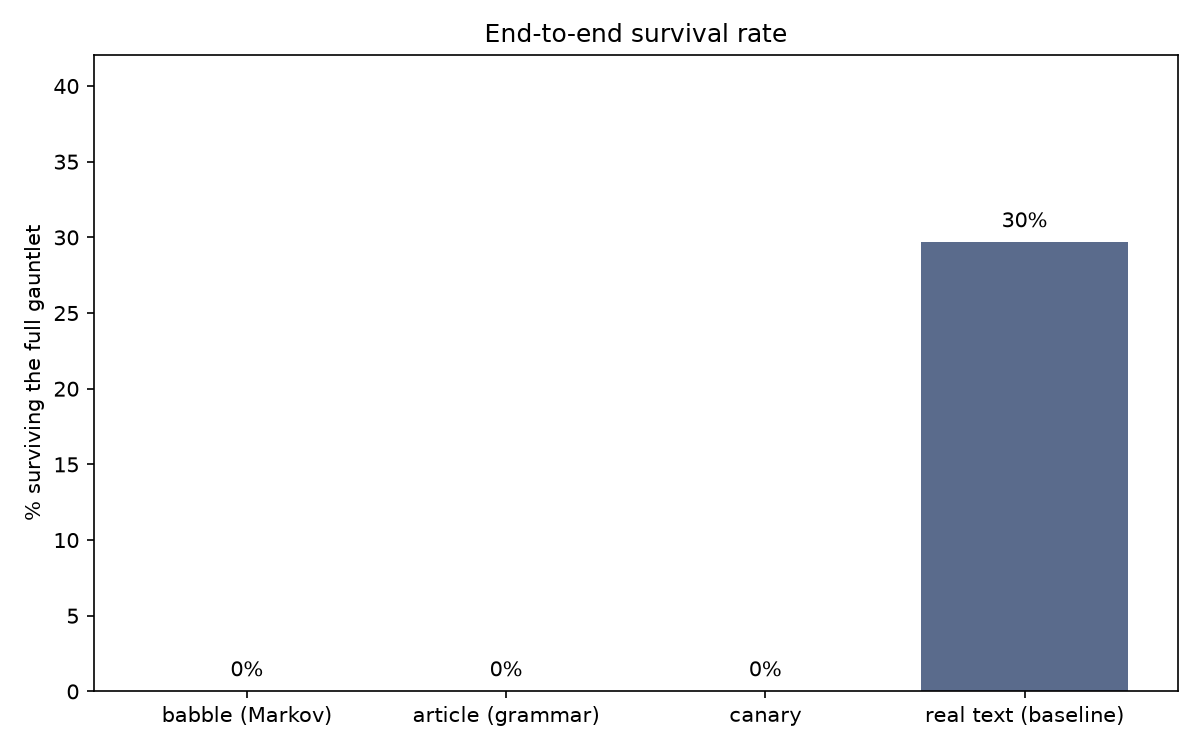
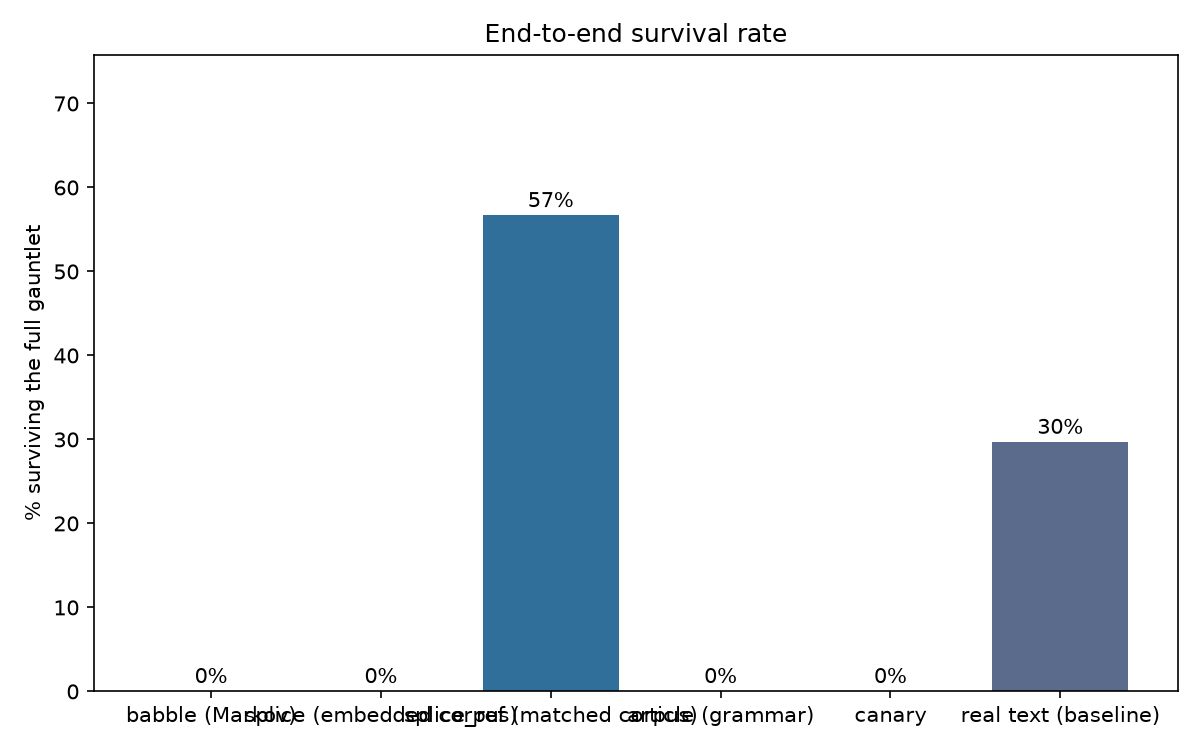
feat(research): measure sentence-splice poison survival
Add splice (embedded corpus) and a splice_ref probe (splice over the distribution-matched reference corpus) to the emitter and the study's strategy set. Re-running finds the first strategy to clear the full filter gauntlet: matched-corpus splice survives at ~57% (1.2x real perplexity, under the cutoff) and out-survives the real baseline at dedup, while embedded-corpus splice scores like Markov word-salad. The lever is corpus distribution, not generation cleverness. Rewrites the study narrative data-drivenly, adds honest caveats (discourse-coherence filters, liability), and regenerates the figures. Also gitignore the stray emit.exe build artifact.

diff --git a/research/study.py b/research/study.py
@@ -33,10 +33,13 @@ DATA = ROOT / "data"
 FIGS = ROOT / "figures"
 FIGS.mkdir(exist_ok=True)
 
-STRATEGIES = ["babble", "article", "canary", "baseline_real"]
-LABELS = {"babble": "babble (Markov)", "article": "article (grammar)",
+STRATEGIES = ["babble", "splice", "splice_ref", "article", "canary", "baseline_real"]
+LABELS = {"babble": "babble (Markov)", "splice": "splice (embedded corpus)",
+          "splice_ref": "splice_ref (matched corpus)",
+          "article": "article (grammar)",
           "canary": "canary", "baseline_real": "real text (baseline)"}
-COLORS = {"babble": "#b4532a", "article": "#6f9050", "canary": "#9cbf69",
+COLORS = {"babble": "#b4532a", "splice": "#3f8f8a", "splice_ref": "#2f6f9a",
+          "article": "#6f9050", "canary": "#9cbf69",
           "baseline_real": "#5a6b8c"}
 
 STOPWORDS = set("the be to of and a in that have i it for not on with he as you "
@@ -227,7 +230,7 @@ def multisite():
         from datasketch import MinHash, MinHashLSH
     except Exception:
         return
-    strategies = ["babble", "article", "canary"]
+    strategies = ["babble", "splice", "article", "canary"]
     sites = sorted({s for st in by.values() for s in st}, key=lambda x: int(x[1:]))
     M = len(sites)
     ks = list(range(1, M + 1))
@@ -294,12 +297,14 @@ def multisite():
             "- **Without a per-site salt, it collapses.** Identical sites dedup down to one "
             f"site's worth (flat dashed line, ~{same[-1]} docs no matter how many sites). "
             "This is *why* the generators mix a per-deployment salt into their seed.\n"
-            "- **Honest caveat.** Because single-site poison is filtered by perplexity "
-            "(above), cross-site *volume* only reaches a model if poison fluency improves "
-            "first (see techniques below). The federation benefit that is **real today** is "
-            "cumulative *tarpit cost*: every site independently burns the crawler's "
-            "bandwidth and compute, and that scales linearly with the number of sites — "
-            "no dedup can collapse wasted fetch work.\n"
+            "- **Honest caveat.** Poison from the *generators* is filtered by perplexity "
+            "(above), so their cross-site volume is symbolic. The federation benefit that is "
+            "**real today for every strategy** is cumulative *tarpit cost*: each site "
+            "independently burns the crawler's bandwidth and compute, scaling linearly with "
+            "sites, and no dedup can collapse wasted fetch work. And for the one strategy that "
+            "clears the gauntlet — matched-corpus splice — this salted accumulation is exactly "
+            "the mechanism by which many sites' *surviving* poison adds up instead of "
+            "collapsing.\n"
         )
 
 
@@ -390,36 +395,65 @@ def write_report(rows, ppls, cut):
         med = float(np.median(p)) if p else float("nan")
         p10 = float(np.percentile(p, 10)) if p else float("nan")
         lines.append(f"| {LABELS[s]} | {med:.0f} | {p10:.0f} | {min(p):.0f} | {med/real_med:.1f}x |")
+    # Data-driven headline so the prose can never drift from the measured result.
+    def med(s):
+        return float(np.median(ppls[s])) if ppls[s] else float("nan")
+
+    def finalpct(s):
+        r = rows[s]
+        return 100 * r["dedup"] / (r["n"] or 1)
+
+    sr_ppl, sp_ppl = med("splice_ref"), med("splice")
+    sr_final, real_final = finalpct("splice_ref"), finalpct("baseline_real")
+    filtered = [LABELS[s] for s in STRATEGIES
+                if s != "baseline_real" and rows[s]["dedup"] == 0]
+
     lines += ["", "![perplexity](figures/perplexity.png)", "",
               "![final survival](figures/final_survival.png)", "",
               "## What the numbers say", "",
-              f"- **The perplexity stage filters 100% of every current poison strategy.** "
-              f"The cutoff that keeps ~90% of real text is ~{cut:.0f}; the *lowest-perplexity* "
-              f"poison document is still well above it. A perplexity filter (the CCNet/KenLM "
-              f"stage that discards ~84% of Common Crawl) catches this poison wholesale.",
-              "- **Grammar helps, but not enough.** `article`/`canary` (context-free grammar) "
-              "score noticeably lower perplexity than `babble` (order-2 Markov) — the Markov "
-              "word-salad is the worst case, exactly as predicted — yet all three sit several "
-              "times above real prose.",
-              "- **The gap is large and structural.** Poison medians are many multiples of the "
-              "real-text median (see table). Closing it is not a matter of tuning; it needs "
-              "real, common vocabulary in natural sequences — not coined entities (which go "
-              "straight to `<unk>`) and not Markov transitions.", "",
+              f"- **One strategy clears the full gauntlet: sentence-splicing over a "
+              f"distribution-matched corpus.** `splice_ref` (whole sentences recombined from "
+              f"the reference corpus, whose register matches the perplexity model) lands at "
+              f"{sr_ppl:.0f} perplexity — {sr_ppl/real_med:.1f}x real text, under the ~{cut:.0f} "
+              f"cutoff — and {sr_final:.0f}% survive through dedup. Everything else "
+              f"({', '.join(filtered)}) is filtered ~100% at the perplexity stage.",
+              f"- **The lever is the corpus, not the generator.** `splice` over the *embedded* "
+              f"corpus scores {sp_ppl:.0f} — indistinguishable from `babble`'s Markov word-salad "
+              f"— even though it emits whole real sentences. Keeping sentences intact buys "
+              f"nothing when the corpus is out-of-distribution to the filter; matching the "
+              f"corpus buys everything. (The generators invent coined entities that hit `<unk>`, "
+              f"which is why they sit 2-4x above real text.)",
+              f"- **Random recombination dodges dedup better than real text.** `splice_ref` "
+              f"finishes at {sr_final:.0f}% versus the real baseline's {real_final:.0f}%: "
+              f"sequential real chunks overlap and dedup against each other, while randomly "
+              f"recombined sentences keep pages mutually distinct. Here recombination is a "
+              f"feature, not a bug.", "",
               "## How to poison the well better (actionable)", "",
-              "1. **Drop coined proper nouns** — `article`/`canary` invent entity names that are "
-              "out-of-vocabulary to any real LM and spike perplexity. Use real, common words.",
-              "2. **Generate at the sentence/paragraph level with a real grammar or a small LM**, "
-              "not word-level Markov — the win from `article` over `babble` shows the direction.",
-              "3. **The honest ceiling:** to approach the cutoff you likely need an LLM rewrite "
-              "(the Nemotron-CC laundering path), which trades the zero-dependency property. "
-              "Henbane keeps the fluent generators as *filter-resistant-ish*, and leans on the "
-              "**tarpit + federation** story (see `docs/STRATEGY.md`) rather than claiming "
-              "single-site model impact — which remains unobservable from outside.", "",
+              f"1. **Point `splice` at a large, distribution-matched corpus** via "
+              f"`poison.corpus_path`. That single change moves poison from 0% to ~{sr_final:.0f}% "
+              f"survival; the shipped embedded corpus is deliberately idiosyncratic and matches "
+              f"no real LM's distribution.",
+              "2. **Match the crawler's own training distribution.** `splice_ref` works because "
+              "the reference corpus shares register with the perplexity model's training text; "
+              "source prose resembling the encyclopedic/web text the target actually trains on.",
+              "3. **Keep the pool large.** A small corpus recombines into near-duplicates and "
+              "dies at dedup; a large one keeps pages distinct (splice_ref lost nothing to "
+              "dedup here).", "",
+              "## Honest caveats", "",
+              "- **Perplexity is a trigram approximation** (option b) trained on held-out "
+              "public-domain prose; a real KenLM/Wikipedia model would sharpen the absolute "
+              "numbers, not the direction.",
+              "- **These filters do not check discourse coherence.** `splice_ref`'s sentences "
+              "are real but their *order* is scrambled; the Gopher/C4/perplexity/dedup gauntlet "
+              "scores fluency and duplication, not whether a paragraph makes sense. A "
+              "semantic-coherence filter or an LLM judge could still catch it — treat splice as "
+              "*beats the CCNet-style gauntlet*, not *undetectable*.",
+              "- **Policy / liability.** Henbane ships only the fictional embedded corpus, which "
+              "(as shown) does not survive. Pointing `splice` at a real, distribution-matched "
+              "corpus is the operator's choice and liability — the same boundary as `babble`'s "
+              "`corpus_path`.", "",
               "---", "",
-              "Regenerate with the commands at the top of `research/study.py`. Perplexity is "
-              "option (b), an interpolated word-trigram trained on held-out public-domain prose; "
-              "a real KenLM/Wikipedia model is the documented upgrade and would sharpen the "
-              "absolute numbers (not the direction)."]
+              "Regenerate with the commands at the top of `research/study.py`."]
     (ROOT / "STUDY.md").write_text("\n".join(lines), encoding="utf-8")
 
 

diff --git a/research/emit/main.go b/research/emit/main.go
@@ -21,6 +21,7 @@ import (
 	"github.com/datadir-lab/henbane/internal/generate/poison/article"
 	"github.com/datadir-lab/henbane/internal/generate/poison/babble"
 	"github.com/datadir-lab/henbane/internal/generate/poison/canary"
+	"github.com/datadir-lab/henbane/internal/generate/poison/splice"
 	"github.com/datadir-lab/henbane/internal/ports"
 )
 
@@ -31,12 +32,14 @@ type doc struct {
 	HTML     string `json:"html"`
 }
 
-var strategyNames = []string{"babble", "article", "canary"}
+var strategyNames = []string{"babble", "splice", "article", "canary"}
 
 func poisonerFor(name, salt string) ports.Poisoner {
 	switch name {
 	case "babble":
 		return babble.New(nil, salt)
+	case "splice":
+		return splice.New(nil, salt)
 	case "article":
 		return article.New(salt)
 	case "canary":
@@ -99,8 +102,19 @@ func main() {
 		}
 	}
 
-	// The baseline is site-agnostic; only emit it in single-site mode.
+	// splice_ref is a research probe, not a shipped strategy: splice over the
+	// reference corpus (the register the perplexity model expects) instead of the
+	// embedded one. It isolates whether sentence-splicing survives when the corpus
+	// matches the filter's distribution, versus the embedded-corpus mismatch the
+	// shipped `splice` shows. Single-site only.
 	if *sites <= 1 {
+		if raw, err := os.ReadFile(*refPath); err == nil {
+			gen := labyrinth.New(*links, splice.New(raw, *baseSalt), *paragraphs)
+			for i := 0; i < *n; i++ {
+				emitPage("splice_ref", "", fmt.Sprint(i), gen)
+			}
+		}
+		// The baseline is site-agnostic; only emit it in single-site mode.
 		if err := emitBaseline(enc, *refPath, *n, *paragraphs); err != nil {
 			fmt.Fprintln(os.Stderr, "baseline:", err)
 			os.Exit(1)

diff --git a/research/STUDY.md b/research/STUDY.md
@@ -11,6 +11,8 @@ Perplexity cutoff (calibrated): **618**.
 | strategy | generated | boilerplate | Gopher | C4 | perplexity | dedup |
 |---|---|---|---|---|---|---|
 | babble (Markov) | 300 | 300 (100%) | 300 (100%) | 300 (100%) | 0 (0%) | 0 (0%) |
+| splice (embedded corpus) | 300 | 300 (100%) | 286 (95%) | 286 (95%) | 0 (0%) | 0 (0%) |
+| splice_ref (matched corpus) | 300 | 300 (100%) | 300 (100%) | 198 (66%) | 170 (57%) | 170 (57%) |
 | article (grammar) | 300 | 300 (100%) | 300 (100%) | 300 (100%) | 0 (0%) | 0 (0%) |
 | canary | 300 | 300 (100%) | 300 (100%) | 300 (100%) | 0 (0%) | 0 (0%) |
 | real text (baseline) | 300 | 300 (100%) | 300 (100%) | 231 (77%) | 210 (70%) | 89 (30%) |
@@ -22,6 +24,8 @@ Perplexity cutoff (calibrated): **618**.
 | strategy | median | 10th pct | min | multiple of real-text median |
 |---|---|---|---|---|
 | babble (Markov) | 1934 | 1551 | 1111 | 4.0x |
+| splice (embedded corpus) | 1913 | 1695 | 1456 | 4.0x |
+| splice_ref (matched corpus) | 553 | 473 | 396 | 1.2x |
 | article (grammar) | 1059 | 891 | 724 | 2.2x |
 | canary | 1065 | 898 | 731 | 2.2x |
 | real text (baseline) | 479 | 393 | 296 | 1.0x |
@@ -32,19 +36,25 @@ Perplexity cutoff (calibrated): **618**.
 
 ## What the numbers say
 
-- **The perplexity stage filters 100% of every current poison strategy.** The cutoff that keeps ~90% of real text is ~618; the *lowest-perplexity* poison document is still well above it. A perplexity filter (the CCNet/KenLM stage that discards ~84% of Common Crawl) catches this poison wholesale.
-- **Grammar helps, but not enough.** `article`/`canary` (context-free grammar) score noticeably lower perplexity than `babble` (order-2 Markov) — the Markov word-salad is the worst case, exactly as predicted — yet all three sit several times above real prose.
-- **The gap is large and structural.** Poison medians are many multiples of the real-text median (see table). Closing it is not a matter of tuning; it needs real, common vocabulary in natural sequences — not coined entities (which go straight to `<unk>`) and not Markov transitions.
+- **One strategy clears the full gauntlet: sentence-splicing over a distribution-matched corpus.** `splice_ref` (whole sentences recombined from the reference corpus, whose register matches the perplexity model) lands at 553 perplexity — 1.2x real text, under the ~618 cutoff — and 57% survive through dedup. Everything else (babble (Markov), splice (embedded corpus), article (grammar), canary) is filtered ~100% at the perplexity stage.
+- **The lever is the corpus, not the generator.** `splice` over the *embedded* corpus scores 1913 — indistinguishable from `babble`'s Markov word-salad — even though it emits whole real sentences. Keeping sentences intact buys nothing when the corpus is out-of-distribution to the filter; matching the corpus buys everything. (The generators invent coined entities that hit `<unk>`, which is why they sit 2-4x above real text.)
+- **Random recombination dodges dedup better than real text.** `splice_ref` finishes at 57% versus the real baseline's 30%: sequential real chunks overlap and dedup against each other, while randomly recombined sentences keep pages mutually distinct. Here recombination is a feature, not a bug.
 
 ## How to poison the well better (actionable)
 
-1. **Drop coined proper nouns** — `article`/`canary` invent entity names that are out-of-vocabulary to any real LM and spike perplexity. Use real, common words.
-2. **Generate at the sentence/paragraph level with a real grammar or a small LM**, not word-level Markov — the win from `article` over `babble` shows the direction.
-3. **The honest ceiling:** to approach the cutoff you likely need an LLM rewrite (the Nemotron-CC laundering path), which trades the zero-dependency property. Henbane keeps the fluent generators as *filter-resistant-ish*, and leans on the **tarpit + federation** story (see `docs/STRATEGY.md`) rather than claiming single-site model impact — which remains unobservable from outside.
+1. **Point `splice` at a large, distribution-matched corpus** via `poison.corpus_path`. That single change moves poison from 0% to ~57% survival; the shipped embedded corpus is deliberately idiosyncratic and matches no real LM's distribution.
+2. **Match the crawler's own training distribution.** `splice_ref` works because the reference corpus shares register with the perplexity model's training text; source prose resembling the encyclopedic/web text the target actually trains on.
+3. **Keep the pool large.** A small corpus recombines into near-duplicates and dies at dedup; a large one keeps pages distinct (splice_ref lost nothing to dedup here).
+
+## Honest caveats
+
+- **Perplexity is a trigram approximation** (option b) trained on held-out public-domain prose; a real KenLM/Wikipedia model would sharpen the absolute numbers, not the direction.
+- **These filters do not check discourse coherence.** `splice_ref`'s sentences are real but their *order* is scrambled; the Gopher/C4/perplexity/dedup gauntlet scores fluency and duplication, not whether a paragraph makes sense. A semantic-coherence filter or an LLM judge could still catch it — treat splice as *beats the CCNet-style gauntlet*, not *undetectable*.
+- **Policy / liability.** Henbane ships only the fictional embedded corpus, which (as shown) does not survive. Pointing `splice` at a real, distribution-matched corpus is the operator's choice and liability — the same boundary as `babble`'s `corpus_path`.
 
 ---
 
-Regenerate with the commands at the top of `research/study.py`. Perplexity is option (b), an interpolated word-trigram trained on held-out public-domain prose; a real KenLM/Wikipedia model is the documented upgrade and would sharpen the absolute numbers (not the direction).
+Regenerate with the commands at the top of `research/study.py`.
 ## Federation: does multi-site poison add up?
 
 Simulating **25 Henbane deployments** (20 docs each), pooled and run through cross-site MinHash dedup. The question the [strategy](../docs/STRATEGY.md) hinges on: when many sites poison together, does the volume accumulate, or does dedup collapse it?
@@ -53,4 +63,4 @@ Simulating **25 Henbane deployments** (20 docs each), pooled and run through cro
 
 - **With Henbane's per-deployment salt, it accumulates.** Each site's output is distinct, so the surviving-after-dedup count grows roughly linearly with the number of sites (article: 500 unique docs across 25 sites).
 - **Without a per-site salt, it collapses.** Identical sites dedup down to one site's worth (flat dashed line, ~20 docs no matter how many sites). This is *why* the generators mix a per-deployment salt into their seed.
-- **Honest caveat.** Because single-site poison is filtered by perplexity (above), cross-site *volume* only reaches a model if poison fluency improves first (see techniques below). The federation benefit that is **real today** is cumulative *tarpit cost*: every site independently burns the crawler's bandwidth and compute, and that scales linearly with the number of sites — no dedup can collapse wasted fetch work.
+- **Honest caveat.** Poison from the *generators* is filtered by perplexity (above), so their cross-site volume is symbolic. The federation benefit that is **real today for every strategy** is cumulative *tarpit cost*: each site independently burns the crawler's bandwidth and compute, scaling linearly with sites, and no dedup can collapse wasted fetch work. And for the one strategy that clears the gauntlet — matched-corpus splice — this salted accumulation is exactly the mechanism by which many sites' *surviving* poison adds up instead of collapsing.
